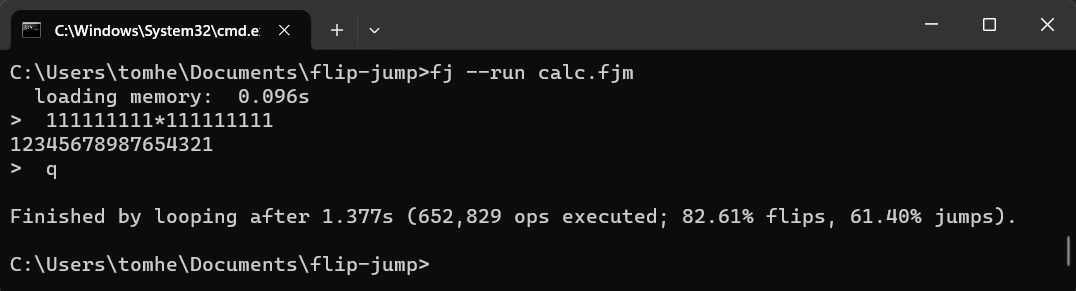
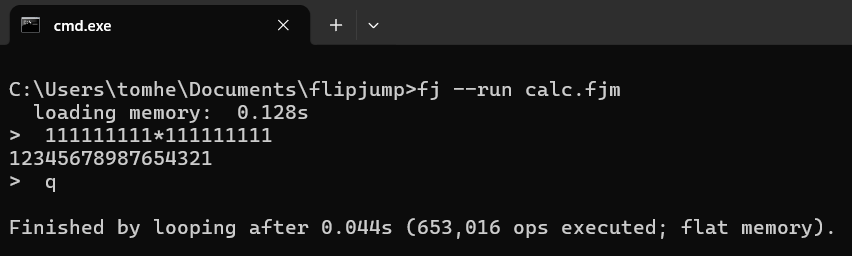
removed the debugging images, updated the calc png's

diff --git a/flipjump/interpreter/fjm_run.py b/flipjump/interpreter/fjm_run.py
@@ -7,8 +7,7 @@ and collecting run statistics (returned as TerminationStatistics).
 three run-loops (engines) are implemented:
 - the native engine (the default when built): the _fjcore C-extension - segment-aware paged
   memory and the fetch-flipjump loop in C, calling back into python only for IO. ~500x
-  faster than the featured loop. build it with `pip install -e .`; disable it with the
-  FLIPJUMP_NO_NATIVE=1 environment variable.
+  faster than the featured loop. disable it with the FLIPJUMP_NO_NATIVE=1 environment variable.
 - the fast loop (the default otherwise): pure-python, the memory accesses and IO/termination
   checks are inlined, and the per-op statistics (flip/jump counters) are skipped. ~20x faster.
 - the featured loop: supports breakpoints, tracing, and full statistics. selected when

diff --git a/flipjump/README.md b/flipjump/README.md
@@ -81,12 +81,7 @@ and f1,f2,f3,... for the compiled .fj files, in the order they are mentioned to 
 
 You can place breakpoints to stop on specific labels using the `-d`, followed by a  `-b` and a label name. You cal also use `-B` instead of `-d` in order to stop on all labels that contain a substring. 
 
-For example stopping on the label "start":
-![Debugging Demo](../resources/breakpoint.png)
-Read memory (You can read the memory as if it was flipjump variables):
-![Debugging Demo](../resources/debug_read_memory.png)
-Notice that `:b8:ascii` is 0x36, which is the ascii of `'6'`, which was the input to the program:
-![Debugging Demo](../resources/debug_read_memory_result.png)
+See the example at the [Debugging Readme](interpreter/debugging/README.md)
 
 
 ## More Files

diff --git a/tests/benchmarks/benchmark_results.md b/tests/benchmarks/benchmark_results.md
@@ -31,7 +31,7 @@ every int is a multi-digit CPython PyLong, and the small-int fast paths don't ap
 ## Native engine (_fjcore C-extension, the default when built)
 
 Segment-aware paged memory (lazily-allocated 128KB pages) + the run-loop in C; Python is
-called back only for IO. Build with `pip install -e .`.
+called back only for IO. Build with `pip install -e .` (note that for that to work - you need to clone this repo as another name, not "flipjump", to not confuse the python package manager).
 
 The shipping engine (v10 below; sieve = hybrid path - low code flat, far data table
 paged; loop = compact/flat path):

diff --git a/README.md b/README.md
@@ -32,7 +32,6 @@ This prime numbers program was coded only with FlipJump ([source](programs/prime
 
 <details>
   <summary>A simple hello-world flipjump program, not using the standard library:</summary>
-(jump to the source code)
 
 ```c
 // define macros that will be used later